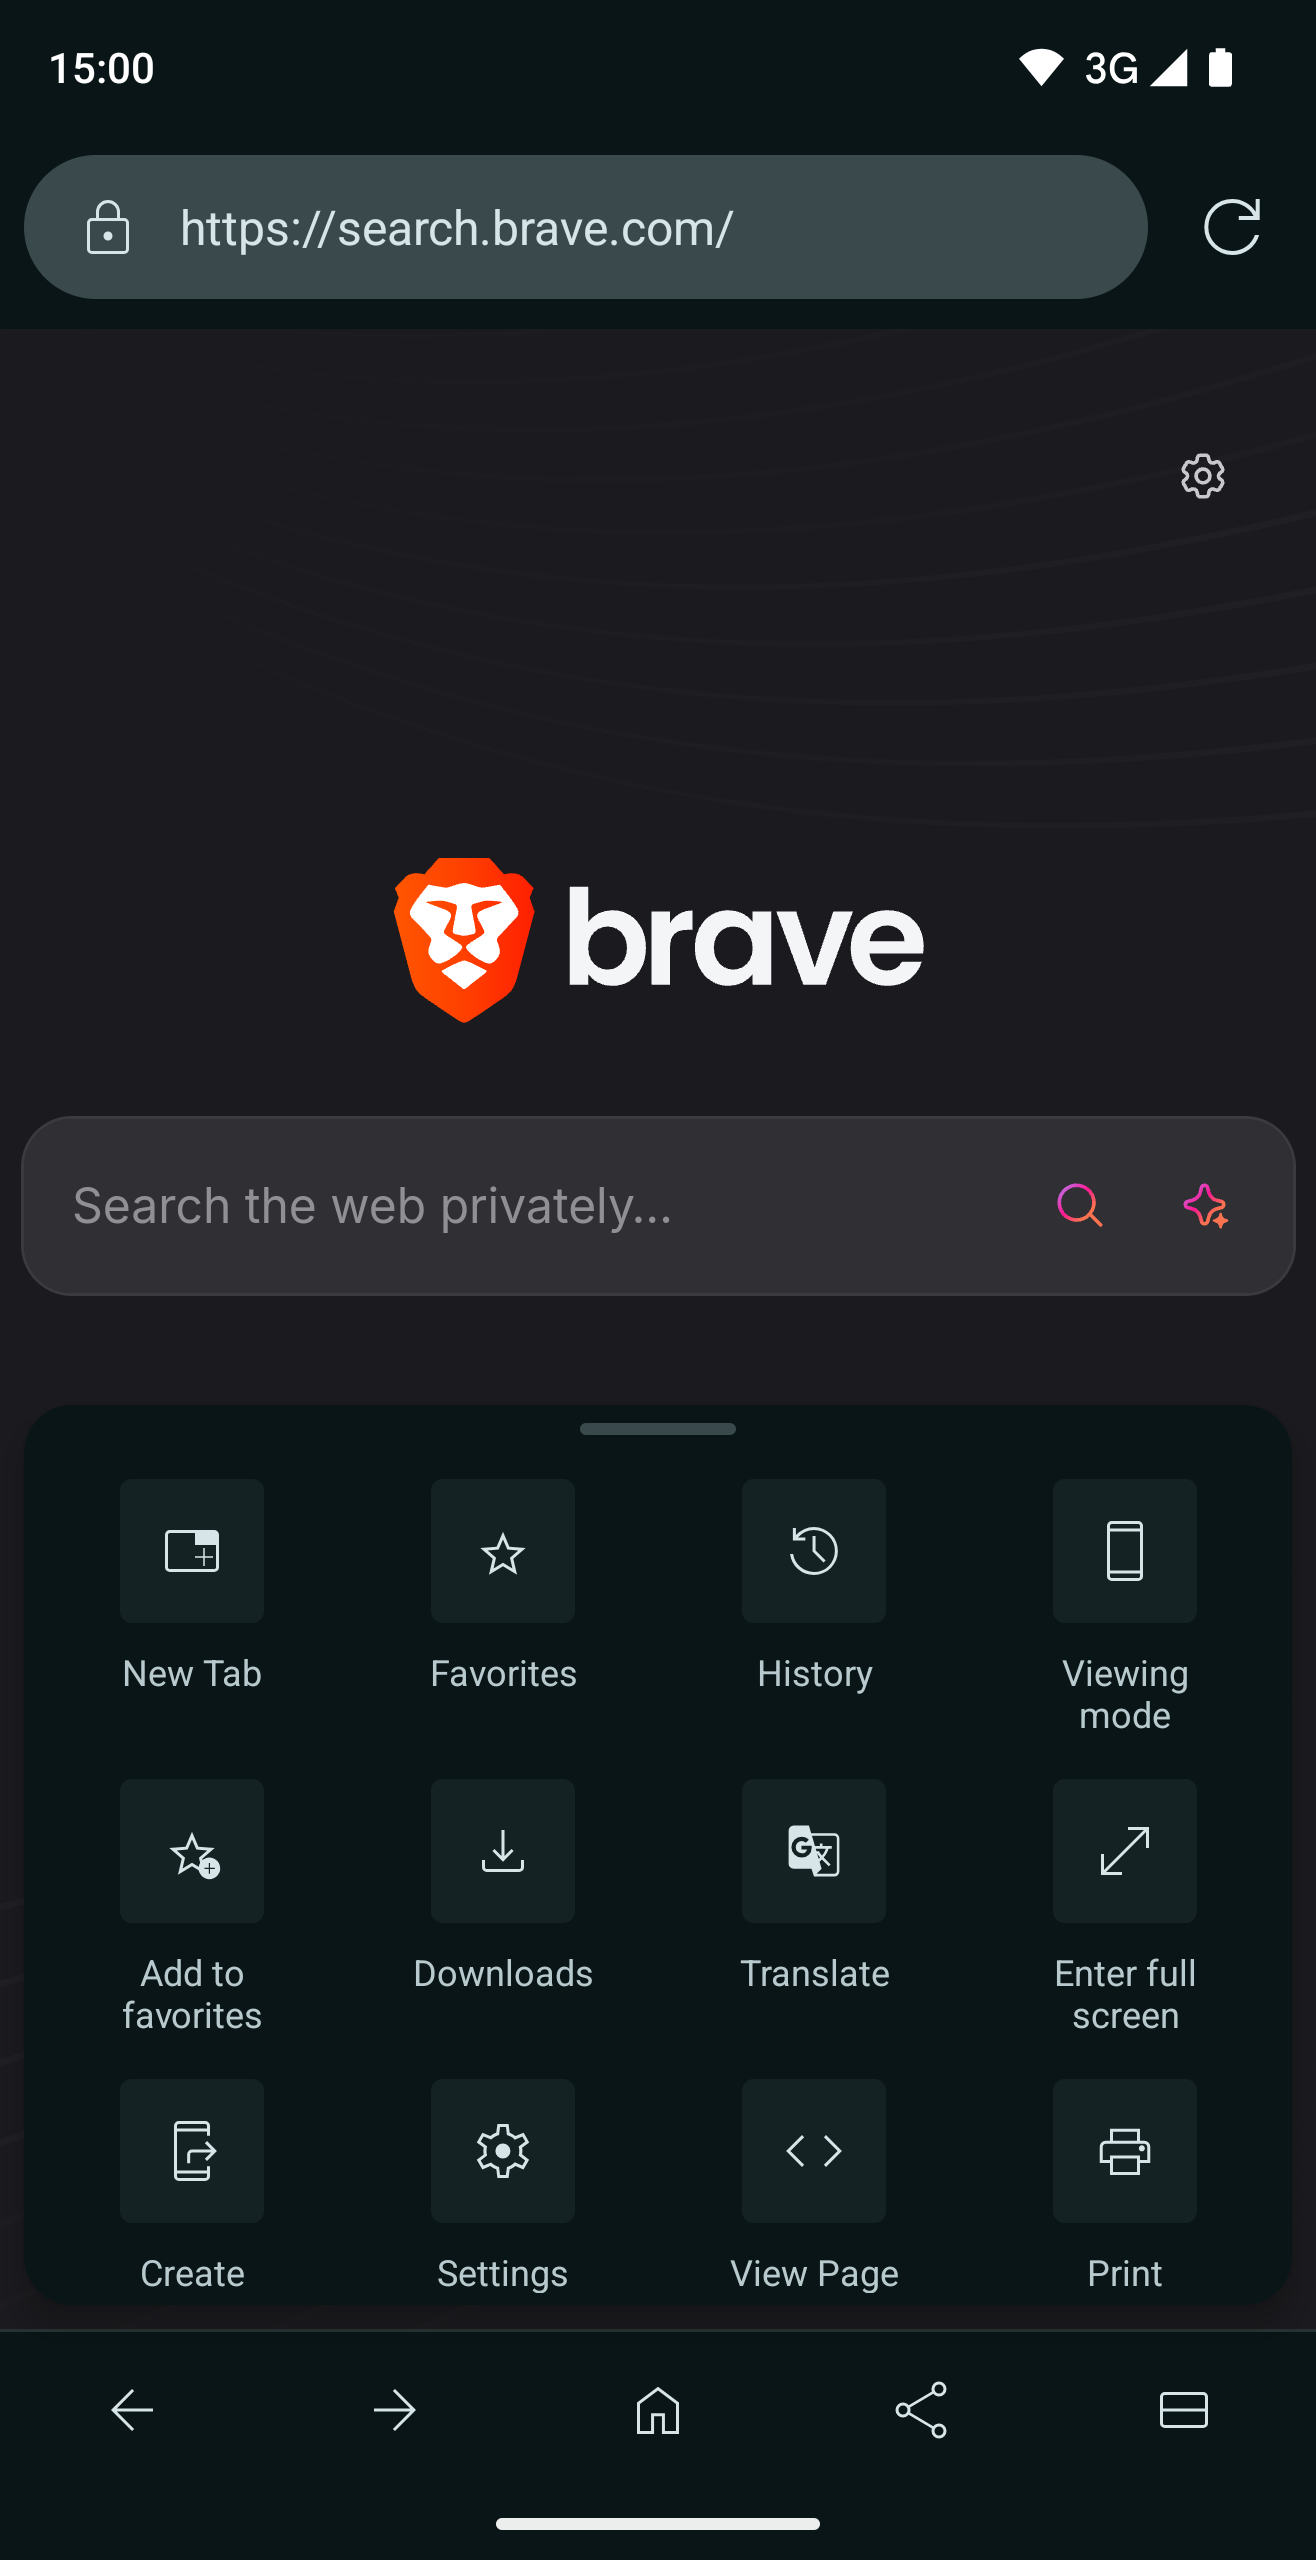
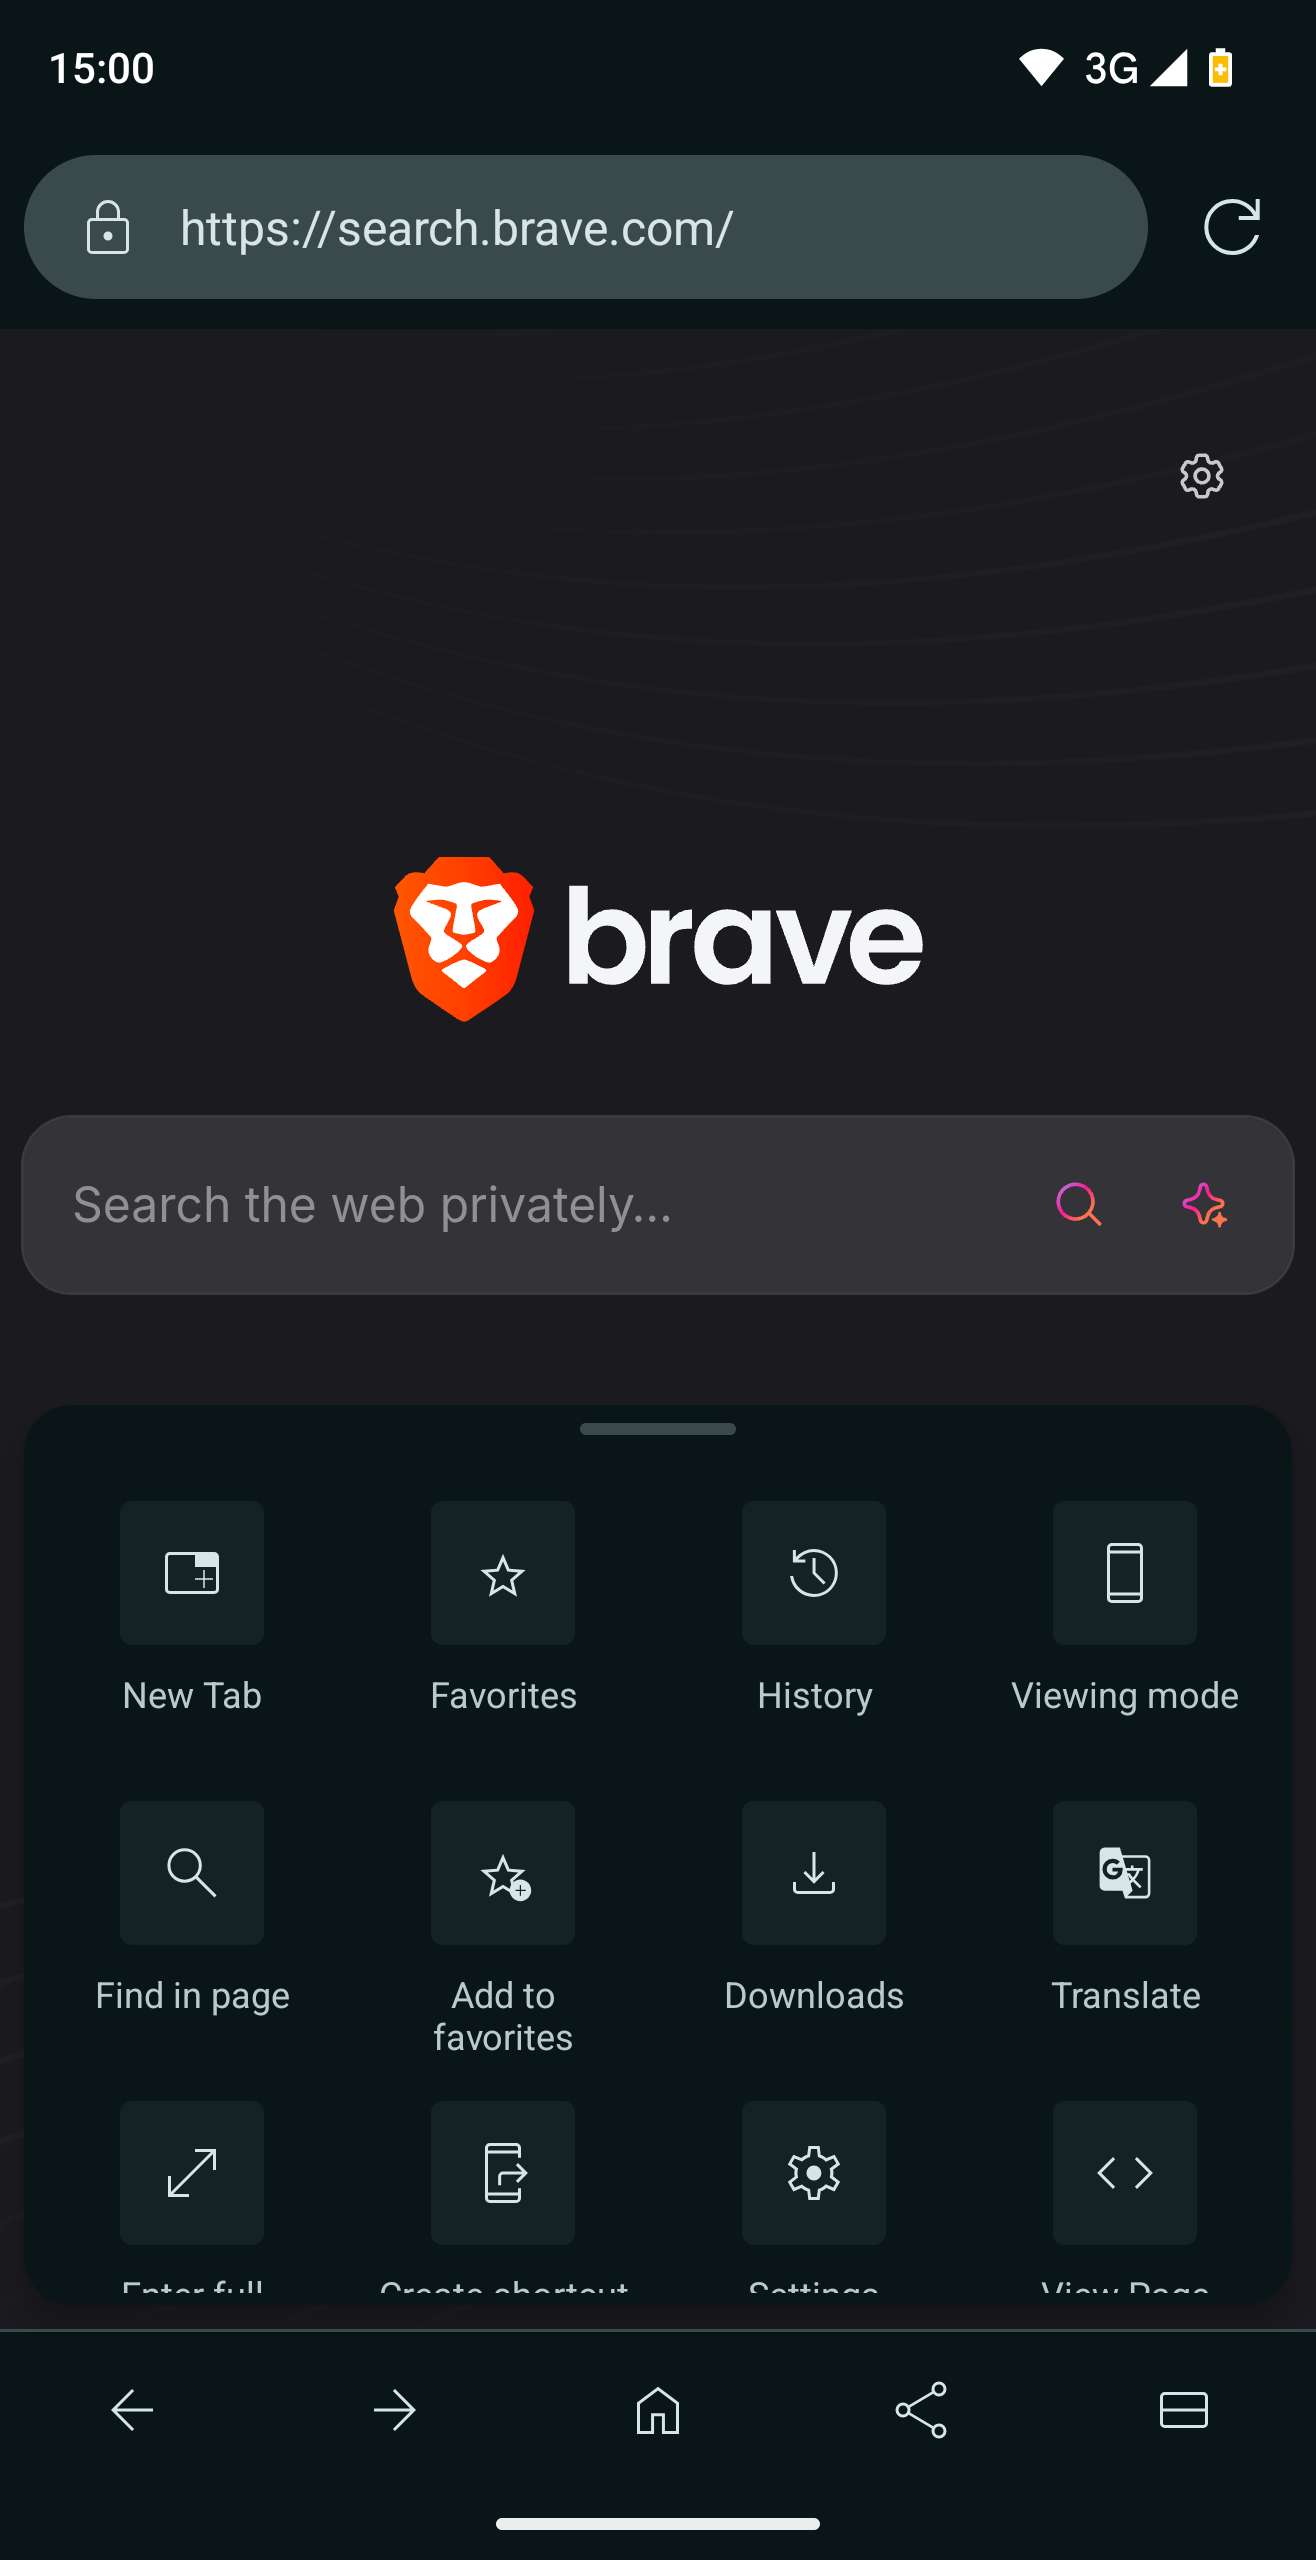
viola: Push Fernando 8.0 release!

diff --git a/_notes/viola/builds/build110.md b/_notes/viola/builds/build110.md
@@ -1,0 +1,72 @@
+---
+layout: Post
+title: Fernando 8.0 (build 110)
+feed: hide
+date: 2025-06-08
+permalink: /viola/builds/build110
+---
+
+# Changes
+## User interface
+### Settings
+
+Settings was wholly redesigned to provide a clean and decluttered user interface for ease of use. At the same time, new options were added to provide more customizations for users.
+
+<div class="gallery">
+    <figure>
+        <img src="/assets/img/viola/settings_1.png" alt="Main page" width="200">
+    </figure>
+    <figure>
+        <img src="/assets/img/viola/settings_2.png" alt="Appearance" width="200">
+    </figure>
+    <figure>
+        <img src="/assets/img/viola/settings_3.png" alt="Privacy and Security" width="200">
+    </figure>
+</div>
+
+**Deatiled changes**:
+- Created Downloads, Development settings and Web features screen
+- Improved theme picker with illustrations
+- Added kill switch for homepage and search suggestions
+- Added support for enabling or disabling Cookies
+- Simplified and updated text for many settings options
+- Show hostname of homepage and search engines
+
+For more detailed changes, you may refer to previous changelogs for "next" versions.
+
+### Better tablet compatibility
+
+Improvements were made to the browser interface for tablet and large screen users.
+
+<img src="/assets/img/viola/tablet_ui.png" alt="Tablet user interface" width="200">
+
+### Miscellaneous
+- **Snackbar** for opening external links
+- Dialog for downgrading to insecure HTTP
+- Top-aligned SSL Lock dialog; and bottom-aligned Create shortcuts dialog
+- Redesigned console logging dialog
+    - Monospaced text and stable dialog size
+    - Add logging levels for each log entry
+
+## Features
+### Find in Page
+
+A very essential feature is finally added - **Find in Page**, allowing you to effortlessly locate content on a webpage.
+
+<img src="/assets/img/viola/find_in_page.png" alt="Find in Page" width="200">
+
+## Miscellaneous
+- Performance improvements for ad blocking, history and favorites
+- Downloading files with external downloads are now made possible
+
+# Translations
+
+Thanks to community contributions, app translations have seen significant improvements.
+
+- Added Italian translations
+- Improved Arabic translations
+
+# Resources
+- [Download (Modern)](https://codeberg.org/TipzTeam/viola/releases/download/8.0/app-modern-release.apk)
+- [Download (Legacy)](https://codeberg.org/TipzTeam/viola/releases/download/8.0/app-legacy-release.apk)
+- [Source Code](https://codeberg.org/TipzTeam/viola/src/tag/8.0)

diff --git a/_notes/viola/Downloads.md b/_notes/viola/Downloads.md
@@ -10,21 +10,18 @@ permalink: /viola/downloads
 
 | Build type | Latest version | Date | Download |
 | :--: | :--: | :--: | :--: |
-| Stable | Exotic 7.2.2 (build 85) | 2025-05-01 | [here](/viola/builds/build85) |
-| Next | Fernando 8.0 (build 106) | 2025-06-01 | [here](/viola/builds/build106) |
+| Stable | Fernando 8.0 (build 110) | 2025-06-08 | [here](/viola/builds/build110) |
+
+<!-- | Next | Fernando 8.0 (build 106) | 2025-06-01 | [here](/viola/builds/build106) | -->
 
 # Changelogs
 ## Version 8.x (Fernando)
 
 | Version | Build number | Build type | Build extra | Date | Download |
 | :--: | :--: | :--: | :--: | :--: | :--: |
+| 8.0 | 110 | Stable | | 2025-06-08 | [here](/viola/builds/build110) |
 | 8.0 | 106 | Next | | 2025-06-01 | [here](/viola/builds/build106) |
 | 8.0 | 105 | Next | | 2025-05-27 | [here](/viola/builds/build105) |
-| 8.0 | 104 | Next | | 2025-05-10 | [here](/viola/builds/build104) |
-| 8.0 | 103 | Next | | 2025-05-08 | [here](/viola/builds/build103) |
-| 8.0 | 102 | Next | | 2025-05-01 | [here](/viola/builds/build102) |
-| 8.0 | 101 | Next | | 2025-05-01 | [here](/viola/builds/build101) |
-| 8.0 | 100 | Next | | 2025-04-30 | [here](/viola/builds/build100) |
 
 ## Version 7.x (Exotic)
 
@@ -32,18 +29,6 @@ permalink: /viola/downloads
 | :--: | :--: | :--: | :--: | :--: | :--: |
 | 7.2.2 | 85 | Stable | | 2025-05-01 | [here](/viola/builds/build85) |
 | 7.2.1 | 84 | Stable | | 2025-04-30 | [here](/viola/builds/build84) |
-| 7.2 | 83 | Stable | | 2025-03-28 | [here](/viola/builds/build83) |
-| 7.1 | 74 | Stable | | 2025-02-23 | [here](/viola/builds/build74) |
-| 7.1 | 73 | Stable | | 2025-02-19 | [here](/viola/builds/build73) |
-| 7.1 | 72 | Stable | | 2025-02-19 | [here](/viola/builds/build72) |
-| 7.1 | 71 | Stable | | 2025-02-18 | [here](/viola/builds/build71) |
-| 7.0 | 70 | Stable | | 2025-02-17 | [here](/viola/builds/build70) |
-
-## Version 6.x
-### Jumpas Update 6.4.x
-
-| Version | Build number | Build type | Build extra | Date | Download |
-| 6.4 | 45 | Stable | | 2025-02-12 | [here](/viola/builds/build45) |
 
 > Looking for an older release?
 > 

diff --git a/_notes/viola/Legacy Downloads.md b/_notes/viola/Legacy Downloads.md
@@ -7,11 +7,26 @@ permalink: /viola/legacy_downloads
 ---
 
 # Changelogs
-## Version 7.x
-### Exotic 7.x
+## Version 8.x (Fernando)
 
 | Version | Build number | Build type | Build extra | Date | Download |
 | :--: | :--: | :--: | :--: | :--: | :--: |
+| 8.0 | 104 | Next | | 2025-05-10 | [here](/viola/builds/build104) |
+| 8.0 | 103 | Next | | 2025-05-08 | [here](/viola/builds/build103) |
+| 8.0 | 102 | Next | | 2025-05-01 | [here](/viola/builds/build102) |
+| 8.0 | 101 | Next | | 2025-05-01 | [here](/viola/builds/build101) |
+| 8.0 | 100 | Next | | 2025-04-30 | [here](/viola/builds/build100) |
+
+## Version 7.x (Exotic)
+
+| Version | Build number | Build type | Build extra | Date | Download |
+| :--: | :--: | :--: | :--: | :--: | :--: |
+| 7.2 | 83 | Stable | | 2025-03-28 | [here](/viola/builds/build83) |
+| 7.1 | 74 | Stable | | 2025-02-23 | [here](/viola/builds/build74) |
+| 7.1 | 73 | Stable | | 2025-02-19 | [here](/viola/builds/build73) |
+| 7.1 | 72 | Stable | | 2025-02-19 | [here](/viola/builds/build72) |
+| 7.1 | 71 | Stable | | 2025-02-18 | [here](/viola/builds/build71) |
+| 7.0 | 70 | Stable | | 2025-02-17 | [here](/viola/builds/build70) |
 | 7.0 | 66 | Next | Beta 6 | 2025-02-15 | [here](/viola/builds/build66) |
 | 7.0 | 65.2 | Next | Beta 5 Patch 2 | 2025-02-12 | [here](/viola/builds/build65r2) |
 | 7.0 | 65.1 | Next | Beta 5 Patch 1 | 2025-02-08 | [here](/viola/builds/build65r1) |
@@ -33,6 +48,11 @@ permalink: /viola/legacy_downloads
 | 7.0 | 59 | Next | | 2024-08-06 | [here](/viola/builds/build59) |
 
 ## Version 6.x
+### Jumpas Update 6.4.x
+
+| Version | Build number | Build type | Build extra | Date | Download |
+| 6.4 | 45 | Stable | | 2025-02-12 | [here](/viola/builds/build45) |
+
 ### Jumpas Update 6.3.x
 
 | Version | Build number | Build type | Build extra | Date | Download |

diff --git a/_notes/viola/Viola Browser.md b/_notes/viola/Viola Browser.md
@@ -32,9 +32,9 @@ Viola Browser currently requires at least **API Level 14**, and is **2.2 MiB** i
 - Basic Download Manager
 - Pull-to-refresh + Smart disable
 - Printing
+- Find in Page
 
 ## Upcoming features
-- Find in Page (8.x)
 - Custom Javascript loader (9.x)
 - Theming (10.x)
 - Built-in multi-threaded download manager (11.x)
